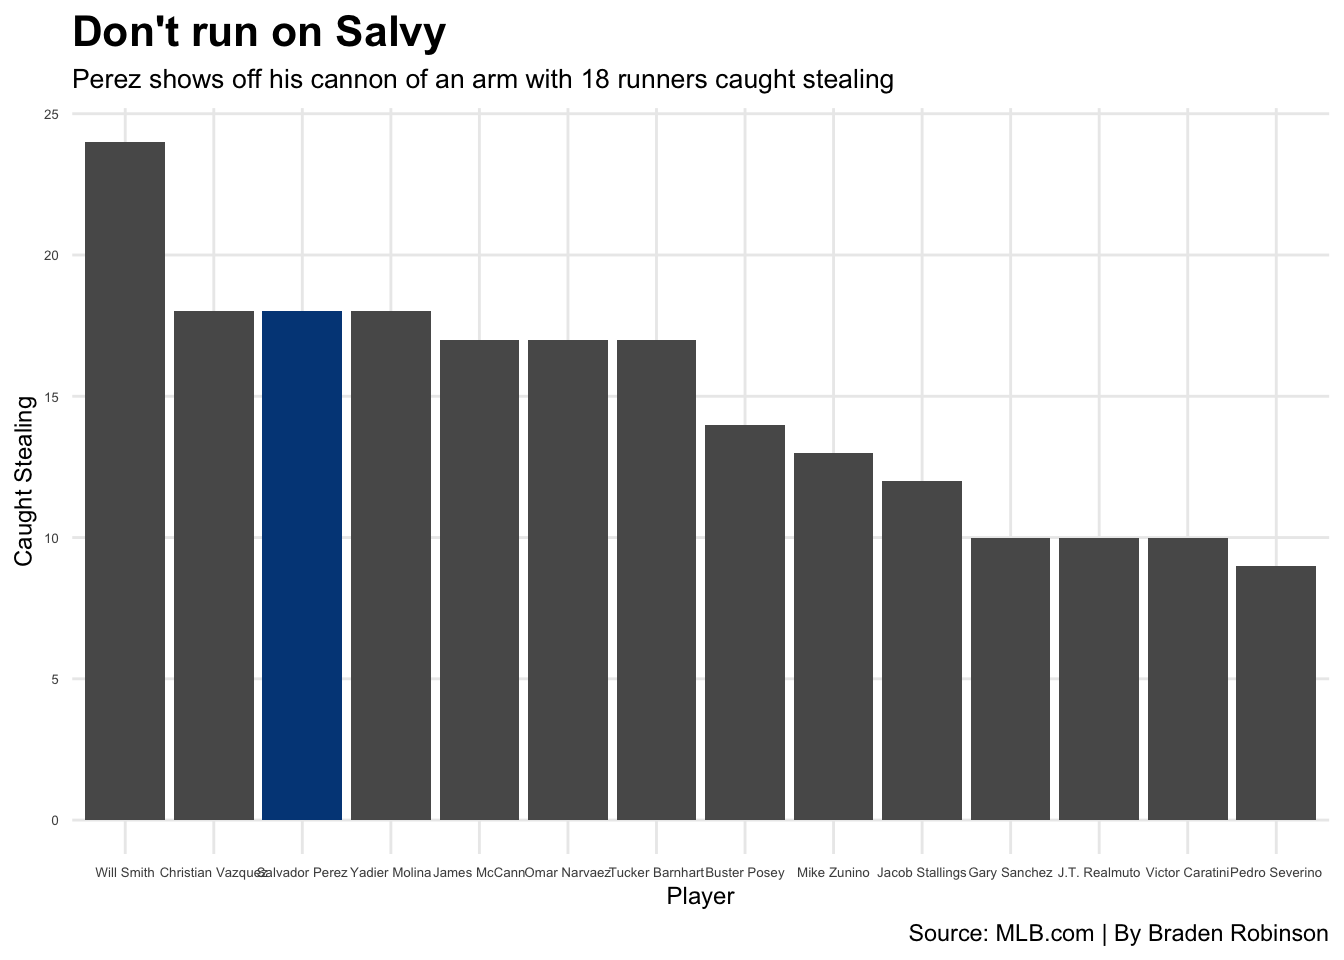
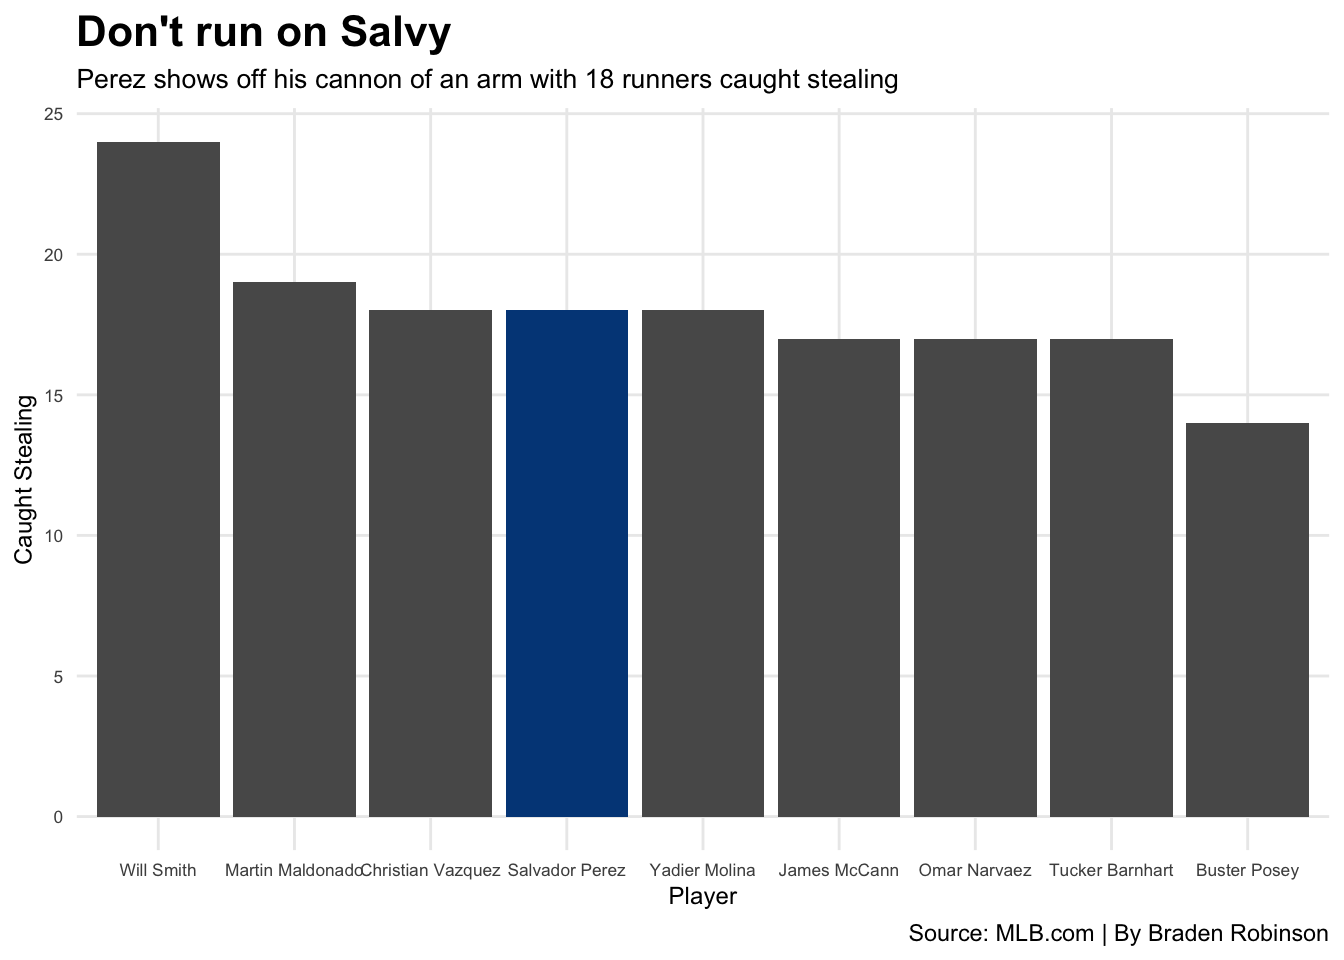
Final3

Changed region(s): [[0.0, 0.125, 1.0, 0.9375], [0.0625, 0.0, 0.6875, 0.0938], [0.0312, 0.0938, 0.0625, 0.125]]

diff --git a/2021/12/02/salvador-perez-s-incredible-year-at-the-plate/index.html b/2021/12/02/salvador-perez-s-incredible-year-at-the-plate/index.html
@@ -124,12 +124,12 @@ Catchingstats &lt;- read.csv(&quot;Project2_CatchingStats.csv&quot;)</code></pre
     locations = cells_body(
       rows = Year == &quot;2021&quot;)
   )</code></pre>
-<div id="wrhguopghe" style="overflow-x:auto;overflow-y:auto;width:auto;height:auto;">
+<div id="ohdgkstyea" style="overflow-x:auto;overflow-y:auto;width:auto;height:auto;">
 <style>html {
   font-family: -apple-system, BlinkMacSystemFont, 'Segoe UI', Roboto, Oxygen, Ubuntu, Cantarell, 'Helvetica Neue', 'Fira Sans', 'Droid Sans', Arial, sans-serif;
 }
 
-#wrhguopghe .gt_table {
+#ohdgkstyea .gt_table {
   display: table;
   border-collapse: collapse;
   margin-left: auto;
@@ -154,7 +154,7 @@ Catchingstats &lt;- read.csv(&quot;Project2_CatchingStats.csv&quot;)</code></pre
   border-left-color: #D3D3D3;
 }
 
-#wrhguopghe .gt_heading {
+#ohdgkstyea .gt_heading {
   background-color: #FFFFFF;
   text-align: center;
   border-bottom-color: #FFFFFF;
@@ -166,7 +166,7 @@ Catchingstats &lt;- read.csv(&quot;Project2_CatchingStats.csv&quot;)</code></pre
   border-right-color: #D3D3D3;
 }
 
-#wrhguopghe .gt_title {
+#ohdgkstyea .gt_title {
   color: #333333;
   font-size: 125%;
   font-weight: initial;
@@ -176,7 +176,7 @@ Catchingstats &lt;- read.csv(&quot;Project2_CatchingStats.csv&quot;)</code></pre
   border-bottom-width: 0;
 }
 
-#wrhguopghe .gt_subtitle {
+#ohdgkstyea .gt_subtitle {
   color: #333333;
   font-size: 85%;
   font-weight: initial;
@@ -186,13 +186,13 @@ Catchingstats &lt;- read.csv(&quot;Project2_CatchingStats.csv&quot;)</code></pre
   border-top-width: 0;
 }
 
-#wrhguopghe .gt_bottom_border {
+#ohdgkstyea .gt_bottom_border {
   border-bottom-style: none;
   border-bottom-width: 2px;
   border-bottom-color: #D3D3D3;
 }
 
-#wrhguopghe .gt_col_headings {
+#ohdgkstyea .gt_col_headings {
   border-top-style: none;
   border-top-width: 2px;
   border-top-color: #D3D3D3;
@@ -207,7 +207,7 @@ Catchingstats &lt;- read.csv(&quot;Project2_CatchingStats.csv&quot;)</code></pre
   border-right-color: #D3D3D3;
 }
 
-#wrhguopghe .gt_col_heading {
+#ohdgkstyea .gt_col_heading {
   color: #333333;
   background-color: #FFFFFF;
   font-size: 100%;
@@ -227,7 +227,7 @@ Catchingstats &lt;- read.csv(&quot;Project2_CatchingStats.csv&quot;)</code></pre
   overflow-x: hidden;
 }
 
-#wrhguopghe .gt_column_spanner_outer {
+#ohdgkstyea .gt_column_spanner_outer {
   color: #333333;
   background-color: #FFFFFF;
   font-size: 100%;
@@ -239,15 +239,15 @@ Catchingstats &lt;- read.csv(&quot;Project2_CatchingStats.csv&quot;)</code></pre
   padding-right: 4px;
 }
 
-#wrhguopghe .gt_column_spanner_outer:first-child {
+#ohdgkstyea .gt_column_spanner_outer:first-child {
   padding-left: 0;
 }
 
-#wrhguopghe .gt_column_spanner_outer:last-child {
+#ohdgkstyea .gt_column_spanner_outer:last-child {
   padding-right: 0;
 }
 
-#wrhguopghe .gt_column_spanner {
+#ohdgkstyea .gt_column_spanner {
   border-bottom-style: none;
   border-bottom-width: 2px;
   border-bottom-color: #D3D3D3;
@@ -259,7 +259,7 @@ Catchingstats &lt;- read.csv(&quot;Project2_CatchingStats.csv&quot;)</code></pre
   width: 100%;
 }
 
-#wrhguopghe .gt_group_heading {
+#ohdgkstyea .gt_group_heading {
   padding: 8px;
   color: #333333;
   background-color: #FFFFFF;
@@ -281,7 +281,7 @@ Catchingstats &lt;- read.csv(&quot;Project2_CatchingStats.csv&quot;)</code></pre
   vertical-align: middle;
 }
 
-#wrhguopghe .gt_empty_group_heading {
+#ohdgkstyea .gt_empty_group_heading {
   padding: 0.5px;
   color: #333333;
   background-color: #FFFFFF;
@@ -296,15 +296,15 @@ Catchingstats &lt;- read.csv(&quot;Project2_CatchingStats.csv&quot;)</code></pre
   vertical-align: middle;
 }
 
-#wrhguopghe .gt_from_md > :first-child {
+#ohdgkstyea .gt_from_md > :first-child {
   margin-top: 0;
 }
 
-#wrhguopghe .gt_from_md > :last-child {
+#ohdgkstyea .gt_from_md > :last-child {
   margin-bottom: 0;
 }
 
-#wrhguopghe .gt_row {
+#ohdgkstyea .gt_row {
   padding-top: 8px;
   padding-bottom: 8px;
   padding-left: 5px;
@@ -323,7 +323,7 @@ Catchingstats &lt;- read.csv(&quot;Project2_CatchingStats.csv&quot;)</code></pre
   overflow-x: hidden;
 }
 
-#wrhguopghe .gt_stub {
+#ohdgkstyea .gt_stub {
   color: #333333;
   background-color: #FFFFFF;
   font-size: 100%;
@@ -335,7 +335,7 @@ Catchingstats &lt;- read.csv(&quot;Project2_CatchingStats.csv&quot;)</code></pre
   padding-left: 12px;
 }
 
-#wrhguopghe .gt_summary_row {
+#ohdgkstyea .gt_summary_row {
   color: #333333;
   background-color: #FFFFFF;
   text-transform: inherit;
@@ -345,7 +345,7 @@ Catchingstats &lt;- read.csv(&quot;Project2_CatchingStats.csv&quot;)</code></pre
   padding-right: 5px;
 }
 
-#wrhguopghe .gt_first_summary_row {
+#ohdgkstyea .gt_first_summary_row {
   padding-top: 8px;
   padding-bottom: 8px;
   padding-left: 5px;
@@ -355,7 +355,7 @@ Catchingstats &lt;- read.csv(&quot;Project2_CatchingStats.csv&quot;)</code></pre
   border-top-color: #D3D3D3;
 }
 
-#wrhguopghe .gt_grand_summary_row {
+#ohdgkstyea .gt_grand_summary_row {
   color: #333333;
   background-color: #FFFFFF;
   text-transform: inherit;
@@ -365,7 +365,7 @@ Catchingstats &lt;- read.csv(&quot;Project2_CatchingStats.csv&quot;)</code></pre
   padding-right: 5px;
 }
 
-#wrhguopghe .gt_first_grand_summary_row {
+#ohdgkstyea .gt_first_grand_summary_row {
   padding-top: 8px;
   padding-bottom: 8px;
   padding-left: 5px;
@@ -375,11 +375,11 @@ Catchingstats &lt;- read.csv(&quot;Project2_CatchingStats.csv&quot;)</code></pre
   border-top-color: #D3D3D3;
 }
 
-#wrhguopghe .gt_striped {
+#ohdgkstyea .gt_striped {
   background-color: rgba(128, 128, 128, 0.05);
 }
 
-#wrhguopghe .gt_table_body {
+#ohdgkstyea .gt_table_body {
   border-top-style: none;
   border-top-width: 2px;
   border-top-color: #D3D3D3;
@@ -388,7 +388,7 @@ Catchingstats &lt;- read.csv(&quot;Project2_CatchingStats.csv&quot;)</code></pre
   border-bottom-color: #D3D3D3;
 }
 
-#wrhguopghe .gt_footnotes {
+#ohdgkstyea .gt_footnotes {
   color: #333333;
   background-color: #FFFFFF;
   border-bottom-style: none;
@@ -402,13 +402,13 @@ Catchingstats &lt;- read.csv(&quot;Project2_CatchingStats.csv&quot;)</code></pre
   border-right-color: #D3D3D3;
 }
 
-#wrhguopghe .gt_footnote {
+#ohdgkstyea .gt_footnote {
   margin: 0px;
   font-size: 90%;
   padding: 4px;
 }
 
-#wrhguopghe .gt_sourcenotes {
+#ohdgkstyea .gt_sourcenotes {
   color: #333333;
   background-color: #FFFFFF;
   border-bottom-style: none;
@@ -422,41 +422,41 @@ Catchingstats &lt;- read.csv(&quot;Project2_CatchingStats.csv&quot;)</code></pre
   border-right-color: #D3D3D3;
 }
 
-#wrhguopghe .gt_sourcenote {
+#ohdgkstyea .gt_sourcenote {
   font-size: 90%;
   padding: 4px;
 }
 
-#wrhguopghe .gt_left {
+#ohdgkstyea .gt_left {
   text-align: left;
 }
 
-#wrhguopghe .gt_center {
+#ohdgkstyea .gt_center {
   text-align: center;
 }
 
-#wrhguopghe .gt_right {
+#ohdgkstyea .gt_right {
   text-align: right;
   font-variant-numeric: tabular-nums;
 }
 
-#wrhguopghe .gt_font_normal {
+#ohdgkstyea .gt_font_normal {
   font-weight: normal;
 }
 
-#wrhguopghe .gt_font_bold {
+#ohdgkstyea .gt_font_bold {
   font-weight: bold;
 }
 
-#wrhguopghe .gt_font_italic {
+#ohdgkstyea .gt_font_italic {
   font-style: italic;
 }
 
-#wrhguopghe .gt_super {
+#ohdgkstyea .gt_super {
   font-size: 65%;
 }
 
-#wrhguopghe .gt_footnote_marks {
+#ohdgkstyea .gt_footnote_marks {
   font-style: italic;
   font-weight: normal;
   font-size: 65%;
@@ -678,12 +678,12 @@ Shohei &lt;- Hittingstats %&gt;%  filter(Player == &quot;Shohei Ohtani&quot;)</c
 <p><img src="http://bradenmrobinson.github.io/2021/12/02/salvador-perez-s-incredible-year-at-the-plate/index_files/figure-html/unnamed-chunk-8-1.png" width="672" /></p>
 <p>Once again Salvador Perez comes through in the clutch for the Royals, with runners on base, Perez is the one that you want at the plate for your team. Leading the way by a big margin in RBIs, and his 169 hits keep him at the top half of the chart. His exceptional season at the dish was the best for a catcher in a very long time. It’s no wonder the Royals want to keep Perez around for the long haul.</p>
 <p>As the face of the franchise, Salvy not only gets it done in the batter’s box, but behind the plate as well. So how does he look compared to other top catchers across the league?</p>
-<pre class="r"><code>top10CS &lt;- Catchingstats %&gt;%
+<pre class="r"><code>top9CS &lt;- Catchingstats %&gt;%
   arrange(desc(CS)) %&gt;%
-  top_n(10) %&gt;%
-  select(Player, CS)</code></pre>
+  select(Player, CS) %&gt;%
+  top_n(9)</code></pre>
 <pre class="r"><code>Salvy &lt;- Catchingstats %&gt;% filter(Player == &quot;Salvador Perez&quot;)</code></pre>
-<pre class="r"><code>ggplot(top10CS, aes(x = reorder(Player,- CS), weight = CS)) +
+<pre class="r"><code>ggplot(top9CS, aes(x = reorder(Player,- CS), weight = CS)) +
   geom_bar() +
   geom_bar(data=Salvy, aes(x=reorder(Player, CS), weight= CS), fill=&quot;#004687&quot;) +
   labs(x=&quot;Player&quot;, y=&quot;Caught Stealing&quot;, title=&quot;Don&#39;t run on Salvy&quot;, subtitle=&quot;Perez shows off his cannon of an arm with 18 runners caught stealing&quot;, caption=&quot;Source: MLB.com | By Braden Robinson&quot;) + 
@@ -693,10 +693,10 @@ Shohei &lt;- Hittingstats %&gt;%  filter(Player == &quot;Shohei Ohtani&quot;)</c
     axis.title = element_text(size = 9), 
     plot.subtitle = element_text(size=10), 
     panel.grid.minor = element_blank(),
-    axis.text = element_text(size=5)
+    axis.text = element_text(size=6.5)
     )</code></pre>
 <p><img src="http://bradenmrobinson.github.io/2021/12/02/salvador-perez-s-incredible-year-at-the-plate/index_files/figure-html/unnamed-chunk-11-1.png" width="672" /></p>
-<p>Salvador Perez ties for second in throwing out runners attempting to steal an extra base. Perez also has a fielding percentage on 99.8%, only allowing one passed ball in 124 games played behind the plate. He has also turned 12 double plays from behind the plate, leading all catchers across the league.</p>
+<p>Salvador Perez ties for third in throwing out runners attempting to steal an extra base. Perez also has a fielding percentage of 99.8%, only allowing one passed ball in 124 games played behind the plate as said before. He has also turned 12 double plays from behind the plate, leading all catchers across the league.</p>
 <p>These stats are insane, Salvador Perez had a stand out year that Royals fans can only hope will happen again next season. As long as Perez stays healthy there is a decent chance that a season like this could reoccur from the all-star catcher.</p>
 
     </div>
